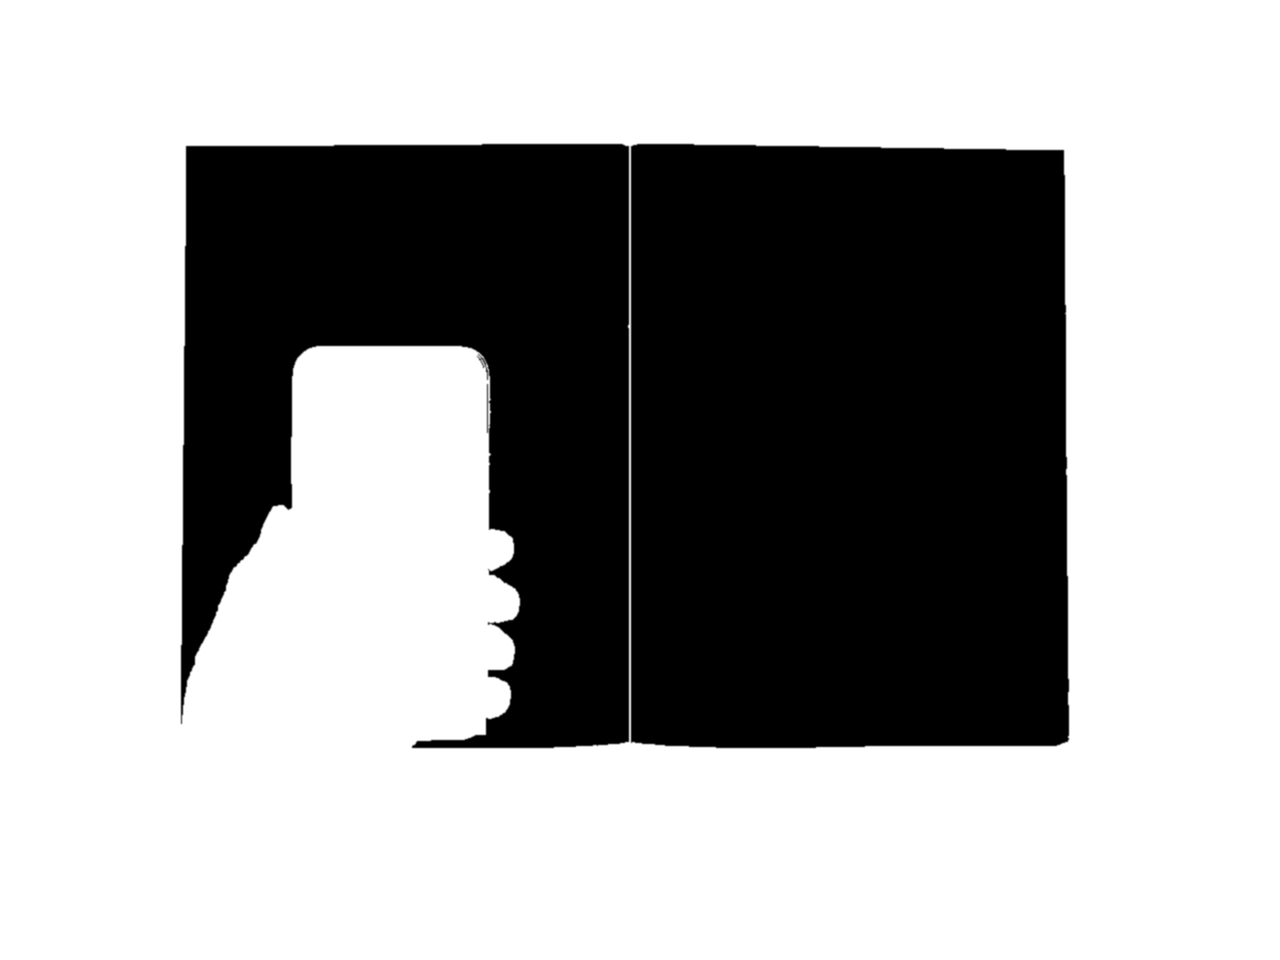
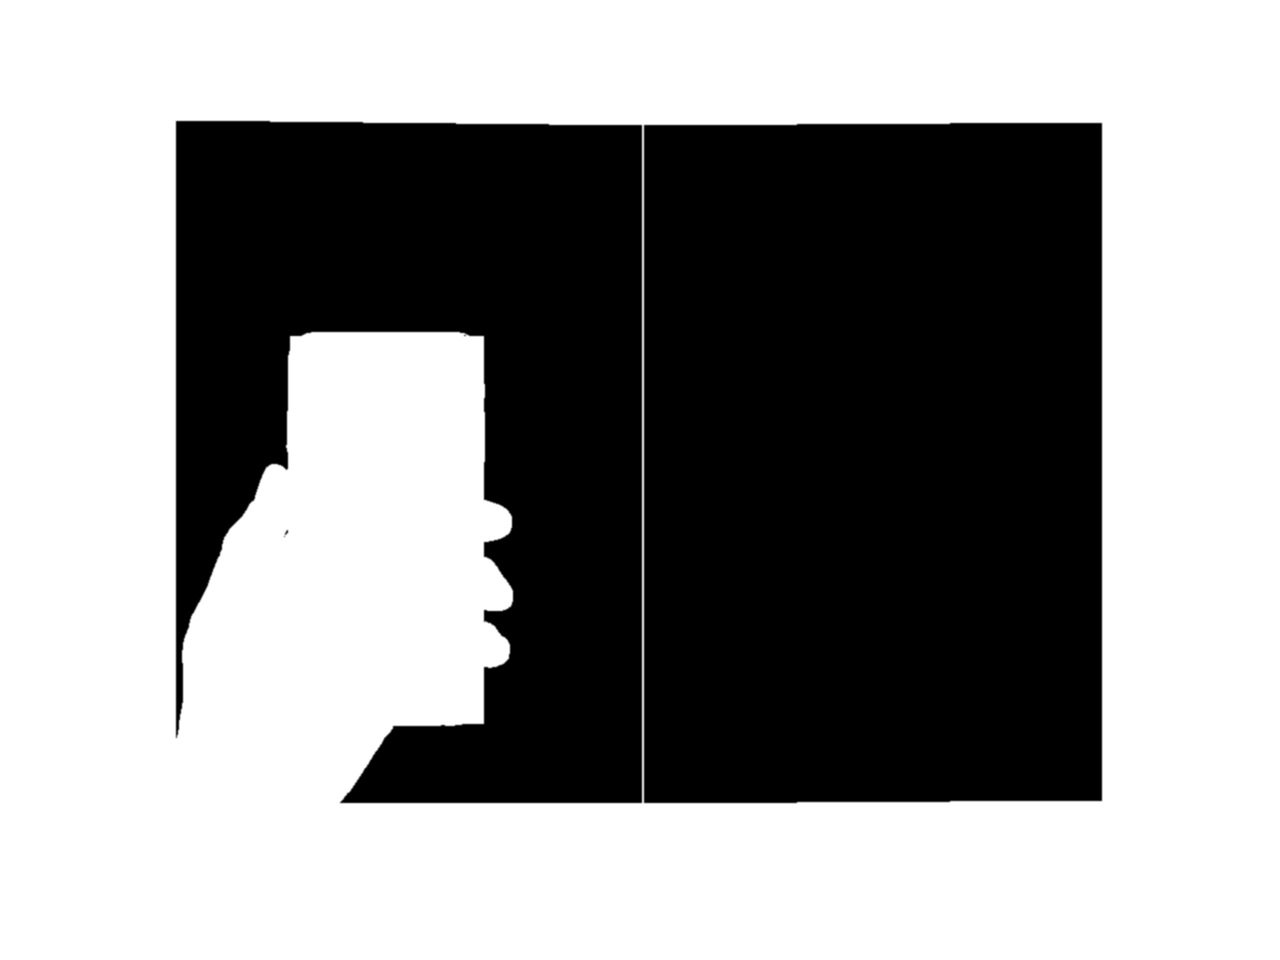
What's included: the scan photo on a white table
The workbook section is white (D-180), so the scan photo is now a new
AI base photo on a white table, brightened to pure white and faded at
the edges into the page. Leah's pages keep their shape inside the
paper and print a little crisper; the camera view is a light surface.

Changed region(s): [[0.125, 0.125, 0.875, 0.8438], [0.4688, 0.3125, 0.5, 0.3438]]

diff --git a/src/components/whats-included.css b/src/components/whats-included.css
@@ -101,15 +101,16 @@
 .wi-mp .wi-score { position: absolute; font-family: var(--pen); font-weight: 600; font-style: normal; color: #e0412b; border: solid #e0412b; border-radius: 50%; line-height: 1.1; transform: rotate(-6deg); }
 
 /* the scan photo (design size 1160 x 830, a crop of the 1280 x 960 photo) */
-.wi-ov { position: relative; width: 1160px; height: 830px; overflow: hidden; border-radius: 24px; box-shadow: 0 40px 80px -40px rgba(60,40,10,.45); }
+/* The white table fades into the white page at the edges. */
+.wi-ov { position: relative; width: 1080px; height: 830px; overflow: hidden; -webkit-mask-image: linear-gradient(90deg, transparent, #000 7%, #000 93%, transparent), linear-gradient(180deg, transparent, #000 7%, #000 93%, transparent); -webkit-mask-composite: source-in; mask-image: linear-gradient(90deg, transparent, #000 7%, #000 93%, transparent), linear-gradient(180deg, transparent, #000 7%, #000 93%, transparent); mask-composite: intersect; }
 .wi-ov-in { position: absolute; left: 0; top: 0; width: 1280px; height: 960px; }
 .wi-ov-bg { position: absolute; inset: 0; width: 1280px; height: 960px; }
 .wi-ov-paper { position: absolute; inset: 0; mix-blend-mode: multiply; -webkit-mask-size: 1280px 960px; mask-size: 1280px 960px; -webkit-mask-repeat: no-repeat; mask-repeat: no-repeat; }
 .wi-warp { position: absolute; left: 0; top: 0; transform-origin: 0 0; }
-.wi-ov-paper .wi-warp { filter: blur(.35px) contrast(.94); opacity: .94; }
+.wi-ov-paper .wi-warp { filter: blur(.2px); }
 .wi-ov .wi-mp.flat { box-shadow: none; background: transparent; }
-.wi-ov-screen { overflow: hidden; border-radius: 15px; }
-.wi-ov-glare { border-radius: 15px; mix-blend-mode: screen; pointer-events: none; background: linear-gradient(125deg, rgba(255,255,255,0) 35%, rgba(255,255,255,.12) 48%, rgba(255,255,255,0) 62%); }
+.wi-ov-screen { overflow: hidden; border-radius: 20px; }
+.wi-ov-glare { border-radius: 20px; mix-blend-mode: screen; pointer-events: none; background: linear-gradient(125deg, rgba(255,255,255,0) 35%, rgba(255,255,255,.12) 48%, rgba(255,255,255,0) 62%); }
 
 /* the app screens (282 x 564) */
 .wi-ui { position: absolute; inset: 0; font-family: var(--ui); overflow: hidden; }
@@ -121,7 +122,7 @@
 .wi-ui .bar2 { position: absolute; left: 16px; right: 16px; top: 46px; display: flex; justify-content: space-between; align-items: center; font: 500 13px var(--ui); }
 .wi-ui .bar2.mid { justify-content: center; }
 .wi-ui .c3 { background: #0e0e10; color: #fff; }
-.wi-ui .c3 .vf { position: absolute; left: 10px; right: 10px; top: 80px; height: 356px; border-radius: 16px; overflow: hidden; background-size: auto 356px; background-position: center; }
+.wi-ui .c3 .vf { position: absolute; left: 10px; right: 10px; top: 80px; height: 356px; border-radius: 16px; overflow: hidden; background: radial-gradient(90% 80% at 50% 45%, #f4f4f4, #dcdcdc); }
 .wi-ui .c3 .vf::after { content: ""; position: absolute; inset: 0; background: radial-gradient(120% 90% at 50% 40%, rgba(0,0,0,0), rgba(0,0,0,.25)); }
 .wi-ui .c3 .pg { position: absolute; left: 50%; top: 50%; transform: translate(-50%, -50%) rotate(-7deg) scale(.95); transition: transform .7s cubic-bezier(.3,.7,.2,1) .1s; z-index: 1; }
 .wi-ui .c3.on .pg { transform: translate(-50%, -50%) rotate(-2deg) scale(1); }

diff --git a/src/components/whats-included.tsx b/src/components/whats-included.tsx
@@ -40,11 +40,12 @@ function StepHead({ eyebrow, title, lead, id, children }: { eyebrow: string; tit
 
 // ---------- the scan photo (S-A) ----------
 // Corners (top-left, top-right, bottom-left, bottom-right) on the 1280 x 960 base photo, measured on a grid. The base
-// photo is AI generated with blank pages and a blank screen (r162); the pages and the app screens are ours.
-const PAGE_L: Quad = [186, 146, 629, 143, 180, 744, 629, 750];
-const PAGE_R: Quad = [631, 143, 1068, 150, 630, 750, 1069, 745];
-const SCREEN: Quad = [303, 375, 479, 375, 303, 726, 477, 728];
-const CROP = { x: 60, y: 60, w: 1160, h: 830 };
+// photo is AI generated on a white table with blank pages and a blank screen (D-180); the pages and the app screens are
+// ours. Each page keeps its 541 x 700 shape, so it sits inside the paper with a top and bottom margin.
+const PAGE_L: Quad = [178, 160, 642, 165, 178, 762, 642, 763];
+const PAGE_R: Quad = [645, 165, 1100, 162, 645, 763, 1100, 760];
+const SCREEN: Quad = [298, 345, 474, 345, 298, 716, 474, 716];
+const CROP = { x: 100, y: 60, w: 1080, h: 830 };
 
 function ScanPhoto() {
   const mask = `url('${ASSETS}/mask-paper.png')`;
@@ -52,7 +53,7 @@ function ScanPhoto() {
     <Fit w={CROP.w} h={CROP.h} className="wi-ov-fit">
       <div className="wi-ov">
         <div className="wi-ov-in" style={{ transform: `translate(${-CROP.x}px, ${-CROP.y}px)` }}>
-          <img className="wi-ov-bg" src={`${ASSETS}/base-overhead-m.jpg`} alt="A parent holds a phone over an open Unica workbook. The Unica app finds page 1, marks it, and shows 28 of 30 right." />
+          <img className="wi-ov-bg" src={`${ASSETS}/scan-base.jpg`} alt="A parent holds a phone over an open Unica workbook. The Unica app finds page 1, marks it, and shows 28 of 30 right." />
           <div className="wi-ov-paper" style={{ WebkitMaskImage: mask, maskImage: mask }}>
             <div className="wi-warp" style={{ width: 541, height: 700, transform: warpTransform(541, 700, PAGE_L) }}><MarkedPage width={541} name className="flat" /></div>
             <div className="wi-warp" style={{ width: 541, height: 700, transform: warpTransform(541, 700, PAGE_R) }}><PageTwo width={541} className="flat" /></div>

diff --git a/src/components/whats-included-scan.tsx b/src/components/whats-included-scan.tsx
@@ -3,7 +3,7 @@
 // The Unica app on the phone in the scan photo: camera, marking, marked, on a loop (D-177, r162 option S-A).
 // With reduced motion it shows the marked screen and stays there.
 import { useEffect, useState } from "react";
-import { ASSETS, MarkedPage } from "./whats-included-parts";
+import { MarkedPage } from "./whats-included-parts";
 
 const STEPS = ["cam", "mkg", "res"] as const;
 const DURATION = [2300, 1300, 3800];
@@ -36,7 +36,7 @@ export function ScanPhone() {
       <div className={`sc c3${on(0)}`}>
         {STATUS}
         <div className="bar2">{ICON_X}<span>Day 1 · page 1 of 8</span>{ICON_FLASH}</div>
-        <div className="vf" style={{ backgroundImage: `url('${ASSETS}/wood.jpg')` }}>
+        <div className="vf">
           <div className="pg"><MarkedPage width={206} name /></div>
           <i className="br a" /><i className="br b" /><i className="br c" /><i className="br d" />
         </div>
